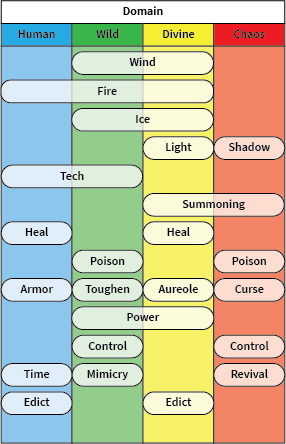
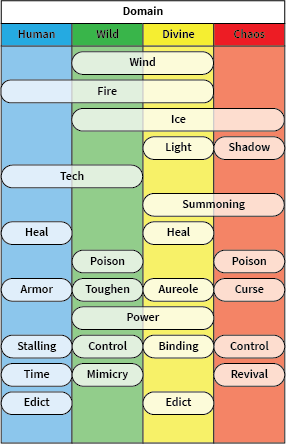
refining

diff --git a/elements/index.md b/elements/index.md
@@ -1,47 +1,74 @@
-# Elements and Domains
+# Domains and Elements
 
 [The AoW Ideas project](https://github.com/nefarious-kitsune/aow.ideas):
 *Ideas from AoW players on changes & improvements to help make the game more interesting.*
 
-![Example](../images/elements.png)
+## Domains
 
-# Wind, Fire, and Ice
+Change unit grouping from *Races* to *Domains*. "Domain" is a more generic umbrella concept than "Race" and provides better grouping logics.
 
-**Wind** is an element that can be controlled by the Wild and Divine domains. Examples: Freyja (wild), Nezha (divine)
+For example, Ballista and Goblin Cannons are inanimate objects constructed by humans and wild beings, and are more aptly described as units of Human Domain and Wild Domain.
 
-**Fire** is an element that can be controlled by Human, Wild, and Divine domains. Because Fire produces light, the Chaos domain cannot control Fire. Examples: Davison (human), Aly (wild), Nezha (divine)
+Change "Dark Race" to "Chaos Domain". There are Supernatural units that are neither from the natural world or the underworld. For example, Meteor Golem should be better described as alien beings belonging to the Chaos Domain.
 
-**Ice** is an element that can be controlled by the Wild and Divine domains. Examples: Kraken (wild), Chione (divine)
+Change "Racial Synergy" and "Racial Restraint" to "Domain Synergy" and "Domain Restraint".
+
+## Skill Elements
+
+Reclassify attack and defense skills as Skill Elements that occupy specific Domains.
+
+![Elements](../images/elements.png)
+
+## Air, Fire, and Ice
+
+**Air** can either enhance fire or suppress fire; because of this controlling ability, Air dominates Fire. Note, however, Air has no effect on *Light*, which can sometimes be mistaken as Fire.
+
+**Fire** can melt Ice; therefore, Fire dominates Ice.
+
+**Ice** affects temperature, which regulates air flow; therefore, Ice dominates Air.
+
+Because Fire produces light, the Chaos Domain CANNOT control Fire. 
+
+|          | Air       | Fire      | Ice     |
+| ---------| --------- | ----------| --------|
+| Human    | n/a       | Davison   | n/a     |
+| Wild     | Frejya    | Aly       | Kraken  |
+| Divine   | Nezha     | Nezha     | Chione  |
+| Chaos    | n/a       | n/a       | Kelvins |
 
 **Counter Relationships**
 * Wind > Fire > Ice
 * Fire > Shadow
 
+**Suggested change**
+- Heroes that controls Air should have the ability to increase physical range attacks. Therefore, Freyja's passive skill should allow for additional damage from *physical* range attacks.
+- Heroes that controls Air should have the ability to suppress fire attacks. Therefore, Freyja's legendary skill should be changed to damage reduction from Fire attacks (both basic and skill).
+
 -----
 
-# Light
+## Light and Shadow
 
-**Light** (including __Lightening__) is an element that is __exclusively__ controlled by the Divine domain. Examples: Apollo, Selene, Zeus, Odin
+**Light** (including __Lightening__) is an element that is __exclusively__ controlled by the Divine domain.
+
+**Shadow** is an element controlled by the Chaos domain.
+
+|          | Light     | Shadow    |
+| ---------| --------- | ----------|
+| Human    | n/a       | n/a       |
+| Wild     | n/a       | n/a       |
+| Divine   | Apollo    | n/a       |
+| Chaos    | n/a       | Mephisto  |
 
 **Counter Relationships**
 * Light > Shadow
 
 **Suggested change**
 - Change the Spider Queen description. She lives in the shadow, so she is from the Chaos domain and should be vulnerable to both Light and Fire attack.
-- Change the special effect of **Priest Mage** from red flame to golden energy blast. Since Light still beats Shadow (Spider Queen), this will not affect the game play.
+- Change the special effect of **Priest Mage** from red flame to golden energy blast. Since Light counters Shadow (Spider Queen), this will not affect Spider Queen campaigns.
 
 -----
 
-# Shadow
-
-**Shadow** is an element that is controlled by the Chaos domain. Examples: Mephisto, Demon
-
-**Counter Relationships**
-* Light > Shadow
-
------
-
-# Tech
+## Tech
 
 **Tech** is an element that is controlled by the Human and Wild domain. Examples: Planck, Ballista, Goblin Cannon.
 
@@ -51,9 +78,9 @@
 
 -----
 
-# Time Control, Summoning, Revival
+# Time Travel, Summoning, Revival
 
-**Time** is an element that can be manipulated by the Human domain.
+**Time Travel** is an element that can be manipulated by the Human domain.
 
 **Summoning** is an element that is controlled by the Divine and Chaos domains. Examples: Dracula (bats), Athena (spears).
 
@@ -109,14 +136,17 @@ This is a catch-all element for some non-elemental attacks, such as Taurus Witch
 
 -----
 
-# Control
+# Stalling, Control, and Binding
+
+**Stalling** is an element that is controlled by the Wild and Chaos domains.
+
+**Binding**
 
 **Control** is an element that is controlled by the Wild and Chaos domains.
 
 **Counter Relationships**
 * Wild Control ignores control immunity of the Divine domain.
 * Chaos Control ignores control immunity of the Human domain.
-
 
 -----
 
@@ -147,9 +177,3 @@ Poison has the special property that it deals *internal* damage that ignore cert
 **Suggested Changes**
 
 * **Slim** - When attacked by a troops, the slim turns into a copy of that troops. Cannot be cursed by Voodoo Dolls.
-
-
-
-
-
-
